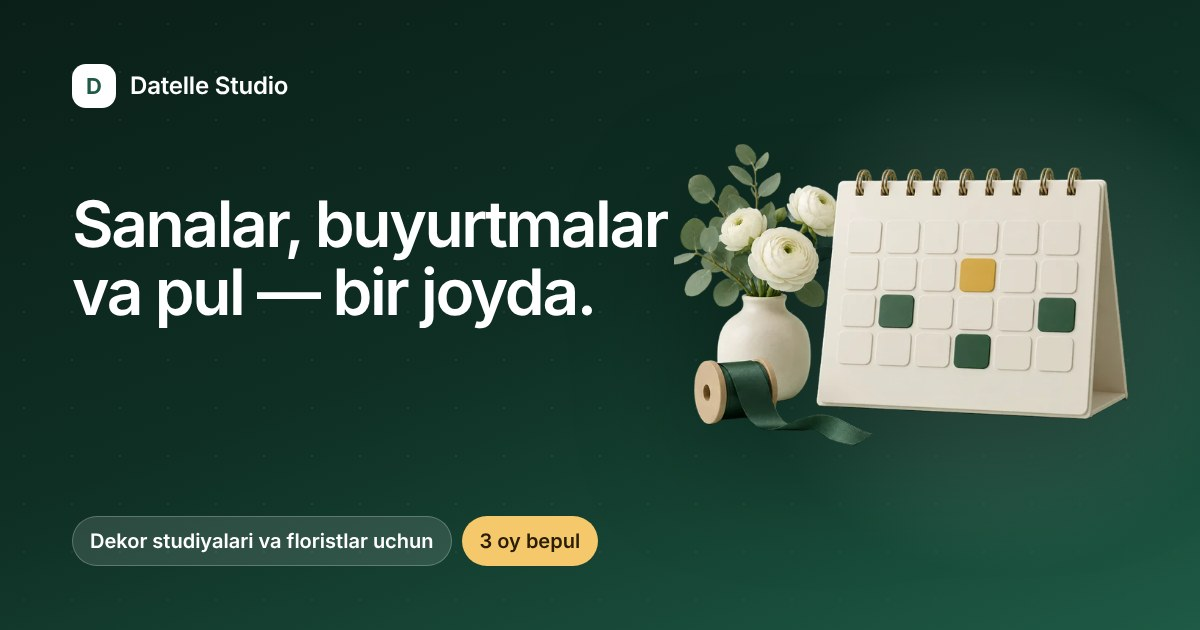
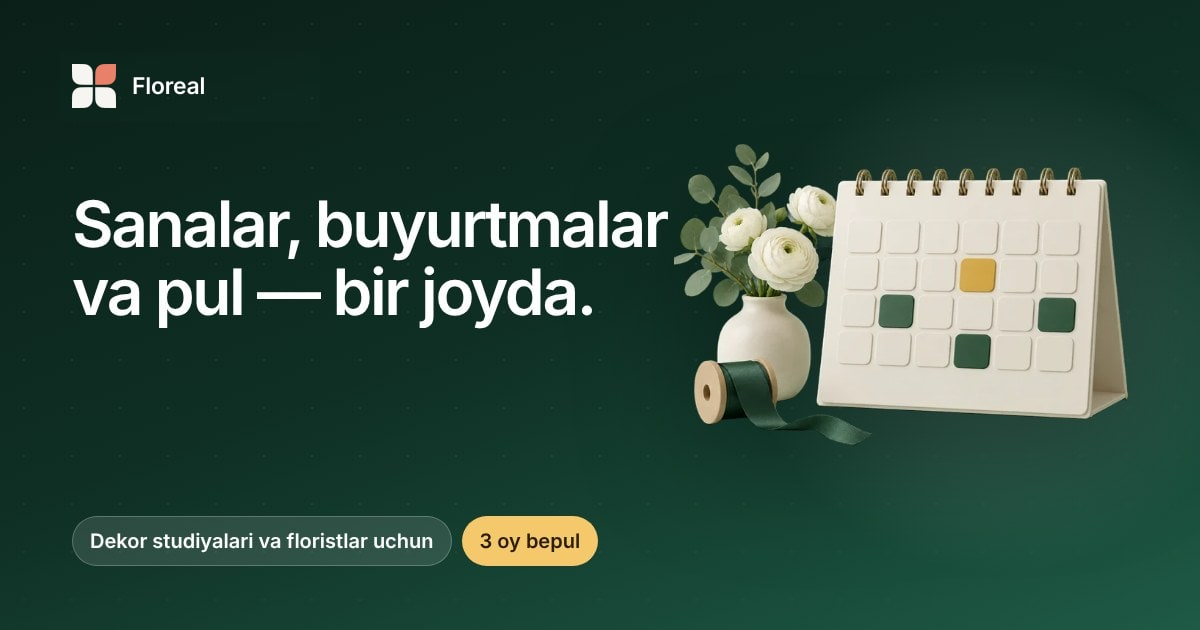
brand: Floreal in /biznes SEO (title, JSON-LD, share image) + docs
Claude-Session: https://claude.ai/code/session_01PKkKQpj1xmPYbNmNVss6Dx

Changed region(s): [[0.0617, 0.0905, 0.2467, 0.181]]

diff --git a/src/components/landing/JsonLd.tsx b/src/components/landing/JsonLd.tsx
@@ -13,7 +13,7 @@ const graph = {
     {
       "@type": "Organization",
       "@id": ORG_ID,
-      name: "Datelle",
+      name: "Floreal",
       url: SITE_URL,
       logo: `${SITE_URL}/apple-icon.png`,
       areaServed: { "@type": "City", name: "Toshkent" },
@@ -22,16 +22,16 @@ const graph = {
       "@type": "WebPage",
       "@id": `${URL_}#webpage`,
       url: URL_,
-      name: "Datelle Studio — dekor studiyalari va floristlar uchun CRM",
+      name: "Floreal — dekor studiyalari va floristlar uchun CRM",
       inLanguage: "uz",
-      isPartOf: { "@type": "WebSite", "@id": `${SITE_URL}/#website`, url: SITE_URL, name: "Datelle", publisher: { "@id": ORG_ID } },
+      isPartOf: { "@type": "WebSite", "@id": `${SITE_URL}/#website`, url: SITE_URL, name: "Floreal", publisher: { "@id": ORG_ID } },
       primaryImageOfPage: `${URL_}/opengraph-image.jpg`,
       about: { "@id": `${URL_}#app` },
     },
     {
       "@type": "SoftwareApplication",
       "@id": `${URL_}#app`,
-      name: "Datelle Studio",
+      name: "Floreal",
       applicationCategory: "BusinessApplication",
       applicationSubCategory: "CRM",
       operatingSystem: "Web, Telegram",

diff --git a/docs/PROJECT_CONTEXT.md b/docs/PROJECT_CONTEXT.md
@@ -1,7 +1,9 @@
-# Datelle — loyiha konteksti (handoff)
+# Floreal (ex-Datelle) — loyiha konteksti (handoff)
 
 > Yangi chatda shu fayldan boshlang. Oxirgi yangilanish: 2026-11-18.
 > Kod: `github.com/ibrohimabrolov/datelle-web` (private) · Jonli sayt: https://datelle-web.vercel.app
+
+> **🌸 2026-11-18 — rebrend: Datelle → *Floreal*.** Mahsulot nomi endi bitta soʻz — **Floreal** ("Studio" qoʻshimchasi yoʻq). Nom: fransuz inqilobiy kalendaridagi "gullar oyi". Logo — *Brand/Mark*: 2×2 kalendar katakchalari gullaydi, oʻng-yuqori gulbarg (`#E9806A`) = band kun. Repo, Vercel loyihasi, `datelle-web.vercel.app`, cookie/DB nomlari, `@datelle_bot` va Project hujjat fayl nomlari **ataylab oʻzgarmadi** (quyida 10-boʻlim, 2026-11-18 rebrend bandi).
 
 > **⚡ 2026-11-11 — yoʻnalish oʻzgardi.** Hozirgi mahsulot — ***Datelle Studio***: dekor studiyalari va floristlar uchun **faqat ichki tizim** (mijoz tomoni yoʻq). MVP: Kalendar · Buyurtma va pul (avans/qoldiq) · egasi uchun Dashboard. Bitta web app: desktop brauzer + Telegram Mini App. Pul — studiya obunasi. Mahsulot rejasi: **`claude/Datelle-MVP-SCOPE.md`** (v0.2) · texnik dizayn: **`claude/Datelle-STUDIO-TECH.md`**. Quyidagi 1–9-boʻlimlar mavjud mijoz saytini (marketplace) tasvirlaydi — u jonli, lekin muzlatilgan.
 
@@ -20,7 +22,7 @@
 - Kategoriyalar: `dekor`, `floristika`. Tadbir turlari: toʻy, qiz uzatar, tugʻilgan kun va h.k. Tumanlar: Toshkentning 12 tumani.
 - Til: interfeys **oʻzbekcha (lotin)**, Toshkent vaqti UTC+5.
 
-**Brend:** hozir kodda `Datelle` (`src/config/brand.ts` — bitta joyda oʻzgaradi). Domen `datelle.uz` va ijtimoiy tarmoqlar hali roʻyxatdan oʻtmagan (placeholder). Brend rangi `#1E5A45` (yashil).
+**Brend:** **Floreal** (2026-11-18 dan; avval Datelle). Kodda `src/config/brand.ts` — bitta joyda oʻzgaradi. Domen `floreal.uz`, Telegram `@floreal_uz`, Instagram `@floreal.uz` — hali roʻyxatdan oʻtmagan (placeholder). Brend rangi `#1E5A45` (yashil), logo accent `#E9806A`.
 
 ---
 
@@ -228,6 +230,7 @@ pending/confirmed → cancelled (mijoz)
 - **2026-11-18:** Figma **component library tartiblandi** (Studio fayli). Sahifalar: `🧩 Components · Core` (35 set), `🧩 Components · Landing` (14), yangi `🖼 Assets` (`Illustration/3D` + 3D cutout PNG'lar), ishlatilmaganlar `🗑 Archive` → "Archive · Components cleanup (2026-11-18)" (SheetHeader, Telegram bottom bar'ning 4 ta ishlatilmagan varianti, eski izoh matnlari — matnlar oldin description'ga ko'chirildi). Nomlash `Category/Name`: Actions, Inputs, Navigation, DataDisplay, Feedback, Overlays, Layout, Patterns, Docs (masalan `Actions/Button`, `DataDisplay/DayCellLarge`, `Navigation/TelegramBottomBar`, `Layout/BottomSafeArea`); Landing — `Landing/*`, ichki bo'laklar `_Landing/Tab`, `_Landing/FAQItem` (publish'dan yashirin). Property'lar: `Style`→`Type`, Size `lg/md`, qiymatlar kebab-case kichik harf, Yes/No → `true/false`, TabBar `Tab=…`, OrderCard `Payment=due/paid/overdue`, Header/Tour `Platform=desktop/mobile`; boolean'lar: slot → `Has …`, indikator → `Show …`. Dialog + ConfirmDialog → bitta `Overlays/Dialog` (`Platform=mobile/desktop`, `Tone`). Text style guruhi `Landing/*` → `Marketing/*` (asosiy scale bilan aniq duplicate yo'q). Bog'landi: spacing 145, radius 22, text style 8; shkaladan tashqari qiymatlar eng yaqin tokenga (±2px): ListRow/Alert padding 14→12, TabBar 6→4 va 14→12, OrderCard gap 14→12, KpiCard/Dialog gap 6→4, DayCell/Capacity 3→4 — **kodda hali eski qiymatlar** (panel 1:1 uchun keyin moslash kerak). Istisno: NumPad, StatusBar, TelegramHeader (tizim metrikasi), `Landing/Tour` ichidagi ekran snapshot'lari, Capacity/HomeIndicator radius 3. Canvas: har set o'z Section'ida (padding 80, gap 160), qatorlar `Docs/SectionHeader` bilan, variant'lar GRID auto-layout'da (ustun = State, qator = qolgan property'lar, gap 24, padding 40).
 - **2026-11-18:** Landing **main'ga qo'shildi va jonli** — PR #16 (merge `315a78b`, 13:2x): https://datelle-web.vercel.app/biznes. Merge oldidan: branch main ustida, faqat landing fayllari + docs o'zgargan (panel/marketplace'ga tegilmagan), tsc/eslint/unit 33 yashil, preview `success`. Jonli tekshiruv: `/api/health` db up, `/biznes` · `/` · `/panel/kirish` · `/studiyalar` 200, mobile tour rasmlari yuklanadi; axe 0 (390/810/1024/1440 × light/dark × menyu), console xatosi 0, gorizontal scroll yo'q. Eslatma: Neon'dagi `preview/studio/landing` (va boshqa merge qilingan preview) branch'larini o'chirish kerak — Free plan limiti.
 - **2026-11-18:** Landing **SEO** (PR #17, merge `5d2e663`, jonli). Title "Datelle Studio — dekor studiyalari va floristlar uchun CRM" (58), description 154 belgi (kalit: CRM, bron kalendari, avans/qoldiq, Telegram, 3 oy bepul); to'liq OG/Twitter; o'z share rasmi 1200×630 `src/app/biznes/opengraph-image.jpg` + `twitter-image.jpg` (+ alt; brand gradient, 3D kalendar, H1, chip'lar) — Telegram/FB/X preview; `googlebot: max-image-preview:large`. JSON-LD `@graph` (`components/landing/JsonLd.tsx`): Organization, WebPage, SoftwareApplication (UZS offer'lar `PLANS`dan), FAQPage (`FAQ`dan) — soxta reyting yo'q. FAQ: ikkala tab paneli HTML'da (faol bo'lmagani `hidden`) — crawler hamma javobni o'qiydi. Sitemap'ga `/biznes` (0.9). Root layout'da `verification` — env: `GOOGLE_SITE_VERIFICATION`, `YANDEX_VERIFICATION` (Ibrohim Vercel'ga o'zi qo'yadi). Off-page keyingi qadamlar: o'z domeni (`datelle.uz` — vercel.app subdomeni reytingda zaif), Search Console + Yandex Webmaster + sitemap yuborish, rus tilidagi versiya (`/ru/biznes` + hreflang — Toshkentda biznes egalarining katta qismi ruscha qidiradi), H1'ga kalit so'z (copy qarori — Ibrohimniki), Telegram kanallar/katalog'lardan backlink.
+- **2026-11-18:** **Rebrend Datelle → Floreal** (PR #19, branch `brand/floreal`). Nom — Ibrohim tanlovi (5 ta variantdan; tekshiruvlar: `floreal.uz`, IMA 9/42-klass, Instagram — Ibrohim qiladi). **Logo** — Ibrohim Figma'da vektorga oʻgirgan belgi asosida toza geometriya: Figma `🧩 Components · Core` → **`Brand/Mark`** (404:12839, 32×32, gulbarg 15.125, gap 1.75, radius 6.5, corner smoothing 0.6; TL/BR gulbarglarda TR+BL burchak yumaloq, TR/BL'da TL+BR); yangi tokenlar **`logo/petal`** (Light → green/700 `#1E5A45`, Dark → `#F6F5F1`) va **`logo/accent`** (`#E9806A`). Figma'da: barcha "D" belgilari (Cover, Marketing, Landing, Mobile, Desktop, Kirish, Sidebar — ~30 ta) `Brand/Mark` instance'iga almashtirildi (qorongʻi fonda — explicit Dark mode), ~130 matn "Datelle/Datelle Studio" → "Floreal", sidebar'dagi "Studio" kichik yozuvi olib tashlandi; Mobile landing'dagi 32×22 ezilgan belgi bug'i ham tuzaldi. Kod: `LogoMark` (`src/components/ui/Logo.tsx`, ranglar `--ds-logo-petal/--ds-logo-accent`; dark tema va landing hero'da cream), landing/panel/kirish/splash/admin/marketplace nav+footer, `icon.svg` + `apple-icon.png` (cream `#F6F5F1` tile), marketplace va `/biznes` OG/Twitter rasmlaridagi lockup, SEO title/JSON-LD (PR #17 dagi), bot matnlari ("Floreal’ni ochish"), SMS matni, `3d-floreal.webp`. **Ataylab oʻzgarmadi:** repo/Vercel nomi va URL, `dt_*` cookie'lar, DB nomi, webhook/admin HMAC tuzlari (`datelle-webhook-v1`, `datelle-admin`) — oʻzgarsa webhook va admin sessiyalari uziladi; `@datelle_bot` — Telegram username'ni oʻzgartirib boʻlmaydi (BotFather'da faqat koʻrinadigan nom + avatar). Tekshiruv: tsc, eslint, unit 33, API 25, panel API 46, axe 0 (/biznes light/dark/mobile, /panel/kirish light/dark). Merge'ni avtomatik xavfsizlik filtri to'xtatdi — Ibrohim GitHub'da o'zi bosadi.
 - **v1.1 kandidatlari:** jamoani tadbirlarga taqsimlash, rekvizit hisobi, xarajatlar — demolar tartibni hal qiladi.
 
 ---
@@ -239,7 +242,7 @@ pending/confirmed → cancelled (mijoz)
 3. **Go / no-go** — ≥ 5 "ha" → scope v0.3 → MVP kodi tech doc 9-boʻlim tartibida (3–5-hafta).
 4. **Maʼlumotlar joylashuvi** — birinchi founding partner real mijoz maʼlumotini kiritishidan **oldin** bazani Oʻzbekistondagi provayderga koʻchirish.
 5. **Datelle Studio v1 jonli** (PR #8 merge, 2026-11-15). Keyingi: Ibrohim @datelle_bot → `/start` → studiya + 1 buyurtma bilan jonli sinov; Vercel Hobby tijoriy foydalanishga ruxsat bermaydi — birinchi pullik studiyadan oldin Pro'ga oʻtish; real mijoz maʼlumotidan oldin bazani Oʻzbekistonga koʻchirish (4-band).
-6. **Domen** — Login Widget va sotuv uchun barqaror domen (`datelle.uz` yoki `studio.datelle.uz`).
+6. **Domen va brend akkauntlari** — `floreal.uz` (Login Widget, sotuv va SEO uchun barqaror domen), Instagram `@floreal.uz`, Telegram `@floreal_uz`; IMA'da 9/42-klass tekshiruvi. BotFather: `@datelle_bot` → `/setname` "Floreal" + `/setuserpic` (username o'zgarmaydi; yangi `@floreal…_bot` domen bilan birga — env + `/setdomain` almashtiriladi).
 7. Marketplace boʻyicha (muzlatilgan): zadatok matnlari, SMS (Eskiz), Payme/Click, foto yuklash, shaxsiy admin akkauntlari, Home illyustratsiyalari, Vercel Hobby → Pro — faqat marketplace'ga qaytilsa.
 
 ---
